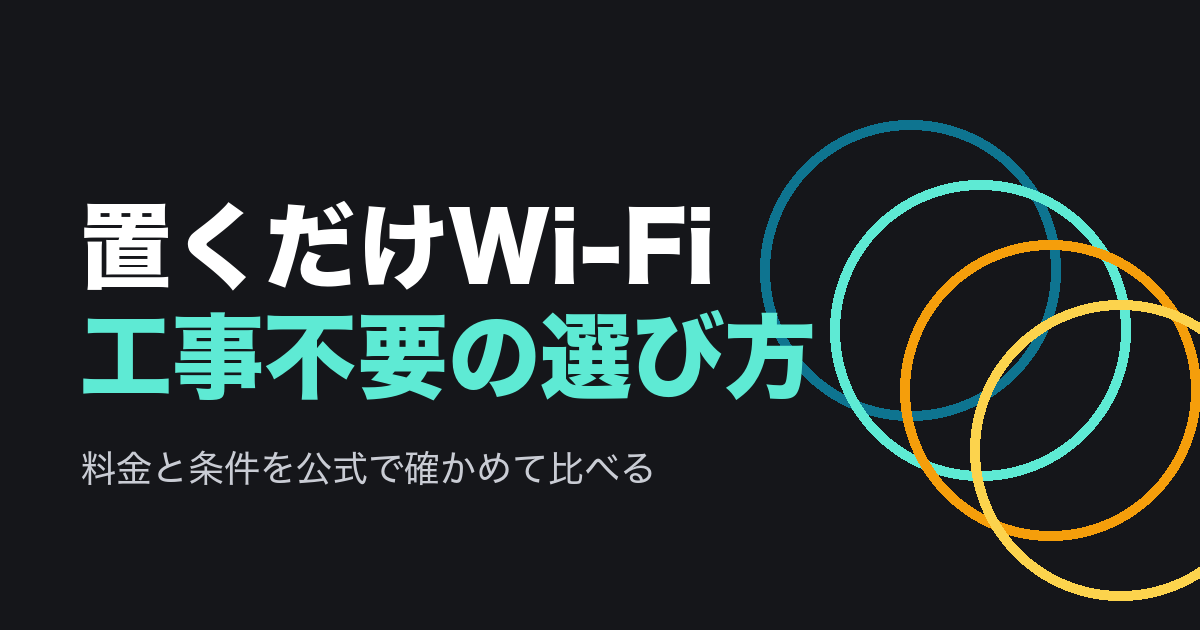
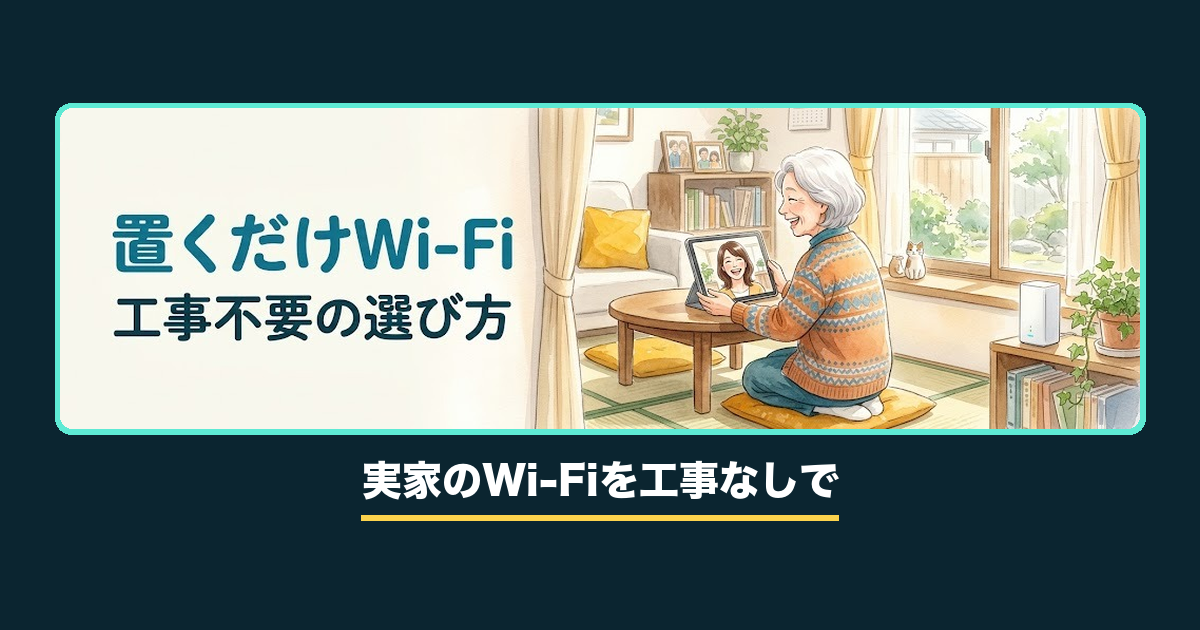
OGP画像（シェア時の画像）をヘッダーの絵とサイトの見た目に合わせて作り直す

diff --git a/make_og.py b/make_og.py
@@ -1,17 +1,119 @@
-"""SNS共有用の画像 docs/og.png（1200x630）を site.json の og 設定から作る。作品画像は使わず図形と文字だけ。"""
+"""SNS共有用の画像 docs/og.png（1200x630）を site.json の og 設定から作る。作品画像は使わず図形と文字だけ。
+og.style（neon / riso / citypop / notebook / frame）があるサイトは、ヘッダー画像（images.header_image）をサイトの見た目に合わせた枠で囲み、
+下に og.card_sub（無ければ og.sub）を置く（2026-10-27 本人「OGP画像もサイトごとに変えて」）。"""
 import json, os
-from PIL import Image, ImageDraw, ImageFont
+from PIL import Image, ImageDraw, ImageFont, ImageFilter
 ROOT = os.path.dirname(os.path.abspath(__file__))
-og = json.load(open(os.path.join(ROOT, "site.json"), encoding="utf-8"))["og"]
+cfg = json.load(open(os.path.join(ROOT, "site.json"), encoding="utf-8"))
+og = cfg["og"]
 W, H = 1200, 630
-im = Image.new("RGB", (W, H), "#15161a")
-d = ImageDraw.Draw(im)
-for i, c in enumerate(og["rings"]):
-    d.ellipse((760 + i * 70, 120 + i * 60, 1060 + i * 70, 420 + i * 60), outline=c, width=10)
-font = "/System/Library/Fonts/ヒラギノ角ゴシック W8.ttc"
-f1, f2 = ImageFont.truetype(font, 92), ImageFont.truetype(font.replace("W8", "W4"), 36)
-d.text((80, 200), og["line1"], font=f1, fill="#ffffff")
-d.text((80, 310), og["line2"], font=f1, fill=og["rings"][1])
-d.text((80, 450), og["sub"], font=f2, fill="#c9ccd4")
+GOTHIC = "/System/Library/Fonts/ヒラギノ角ゴシック W8.ttc"
+MARU = "/System/Library/Fonts/ヒラギノ丸ゴ ProN W4.ttc"
+
+
+def rings():
+    im = Image.new("RGB", (W, H), "#15161a")
+    d = ImageDraw.Draw(im)
+    for i, c in enumerate(og["rings"]):
+        d.ellipse((760 + i * 70, 120 + i * 60, 1060 + i * 70, 420 + i * 60), outline=c, width=10)
+    f1, f2 = ImageFont.truetype(GOTHIC, 92), ImageFont.truetype(GOTHIC.replace("W8", "W4"), 36)
+    d.text((80, 200), og["line1"], font=f1, fill="#ffffff")
+    d.text((80, 310), og["line2"], font=f1, fill=og["rings"][1])
+    d.text((80, 450), og["sub"], font=f2, fill="#c9ccd4")
+    return im
+
+
+def round_mask(size, r):
+    m = Image.new("L", size, 0)
+    ImageDraw.Draw(m).rounded_rectangle((0, 0, size[0] - 1, size[1] - 1), r, fill=255)
+    return m
+
+
+def glow(im, draw_fn, color, blur):
+    """draw_fn(ImageDraw) で描いた形を、ぼかした光として im に重ねる"""
+    m = Image.new("L", (W, H), 0)
+    draw_fn(ImageDraw.Draw(m))
+    m = m.filter(ImageFilter.GaussianBlur(blur))
+    im.paste(Image.new("RGB", (W, H), color), (0, 0), m)
+
+
+def styled(style):
+    hdr = Image.open(os.path.join(ROOT, cfg["images"]["header_image"])).convert("RGB")
+    iw = 1080
+    hdr = hdr.resize((iw, round(hdr.height * iw / hdr.width)), Image.LANCZOS)
+    if hdr.height > H - 132:  # 縦に長いヘッダーは、下の文字が入る高さまで縮める
+        hdr = hdr.resize((round(hdr.width * (H - 132) / hdr.height), H - 132), Image.LANCZOS)
+    iw, ih = hdr.size
+    x, y = (W - iw) // 2, (H - ih - 92) // 2
+    ty = y + ih + 30  # 下の文字の上端
+    sub = og.get("card_sub", og["sub"])
+    if style == "neon":  # ネオンのライブ会場
+        im = Image.new("RGB", (W, H), "#130c25")
+        glow(im, lambda d: d.ellipse((200, -380, 1000, 260), fill=255), "#3b1a6e", 60)
+        glow(im, lambda d: d.rounded_rectangle((x - 4, y - 4, x + iw + 4, y + ih + 4), 22, outline=255, width=12), "#ff4fc4", 14)
+        d = ImageDraw.Draw(im)
+        d.rounded_rectangle((x - 3, y - 3, x + iw + 3, y + ih + 3), 20, outline="#ffb3ea", width=3)
+        im.paste(hdr, (x, y), round_mask(hdr.size, 18))
+        f = ImageFont.truetype(MARU, 44)
+        tx = (W - d.textlength(sub, font=f)) / 2
+        glow(im, lambda d: d.text((tx, ty), sub, font=f, fill=255), "#ff4fc4", 8)
+        ImageDraw.Draw(im).text((tx, ty), sub, font=f, fill="#ffffff")
+    elif style == "riso":  # 版画風の紙
+        im = Image.new("RGB", (W, H), "#f6eedb")
+        d = ImageDraw.Draw(im)
+        for yy in range(0, H, 6):
+            for xx in range(0, W, 6):
+                d.point((xx, yy), fill="#e3d7bd")
+        d.rectangle((x + 12, y + 12, x + iw + 12, y + ih + 12), fill="#b8321c")
+        im.paste(hdr, (x, y))
+        d.rectangle((x - 2, y - 2, x + iw + 2, y + ih + 2), outline="#3a2416", width=5)
+        f = ImageFont.truetype(GOTHIC, 40)
+        tw = d.textlength(sub, font=f)
+        bx = (W - tw) / 2
+        d.rectangle((bx - 24 + 6, ty - 6 + 6, bx + tw + 24 + 6, ty + 56 + 6), fill="#3a2416")
+        d.rectangle((bx - 24, ty - 6, bx + tw + 24, ty + 56), fill="#d4920f", outline="#3a2416", width=4)
+        d.text((bx, ty + 2), sub, font=f, fill="#3a2416")
+    elif style == "citypop":  # 80 年代シティポップの夕暮れ
+        im = Image.new("RGB", (W, H))
+        d = ImageDraw.Draw(im)
+        for yy in range(H):
+            t = yy / H
+            d.line((0, yy, W, yy), fill=tuple(round(a + (b - a) * t) for a, b in ((0x2b, 0x17), (0x1f, 0x14), (0x5c, 0x3a))))
+        im.paste(hdr, (x, y), round_mask(hdr.size, 8))
+        for i, c in enumerate(("#ffb15c", "#ff7eb6", "#8e6bff")):
+            d.rectangle((x, y + ih + 10 + i * 8, x + iw, y + ih + 14 + i * 8), fill=c)
+        f = ImageFont.truetype(GOTHIC, 40)
+        d.text(((W - d.textlength(sub, font=f)) / 2, ty + 20), sub, font=f, fill="#ffffff")
+    elif style == "notebook":  # 白地の方眼ノート
+        im = Image.new("RGB", (W, H), "#ffffff")
+        d = ImageDraw.Draw(im)
+        for v in range(0, W, 24):
+            d.line((v, 0, v, H), fill="#e8ecfa")
+        for v in range(0, H, 24):
+            d.line((0, v, W, v), fill="#e8ecfa")
+        d.rounded_rectangle((x + 10, y + 10, x + iw + 10, y + ih + 10), 16, fill="#ffe34d")
+        im.paste(hdr, (x, y), round_mask(hdr.size, 14))
+        d.rounded_rectangle((x - 2, y - 2, x + iw + 2, y + ih + 2), 16, outline="#14215a", width=4)
+        f = ImageFont.truetype(GOTHIC, 40)
+        tw = d.textlength(sub, font=f)
+        bx = (W - tw) / 2
+        d.rectangle((bx - 6, ty + 30, bx + tw + 6, ty + 52), fill="#ffe34d")
+        d.text((bx, ty + 4), sub, font=f, fill="#14215a")
+    elif style == "frame":  # 決まった見た目のないサイト: images.bg の地にアクセント色の枠
+        col = cfg["colors"]
+        im = Image.new("RGB", (W, H), cfg["images"].get("bg", "#15161a"))
+        d = ImageDraw.Draw(im)
+        d.rounded_rectangle((x - 5, y - 5, x + iw + 5, y + ih + 5), 16, fill=col["ACCENT_D"])
+        im.paste(hdr, (x, y), round_mask(hdr.size, 12))
+        f = ImageFont.truetype(GOTHIC, 40)
+        tw = d.textlength(sub, font=f)
+        d.text(((W - tw) / 2, ty), sub, font=f, fill="#ffffff")
+        d.rectangle(((W - tw) / 2, ty + 56, (W + tw) / 2, ty + 61), fill=col["ACCENT2_D"])
+    else:
+        return rings()
+    return im
+
+
+im = styled(og["style"]) if og.get("style") and cfg.get("images", {}).get("header_image") else rings()
 os.makedirs(os.path.join(ROOT, "docs"), exist_ok=True)
 im.save(os.path.join(ROOT, "docs", "og.png"))
